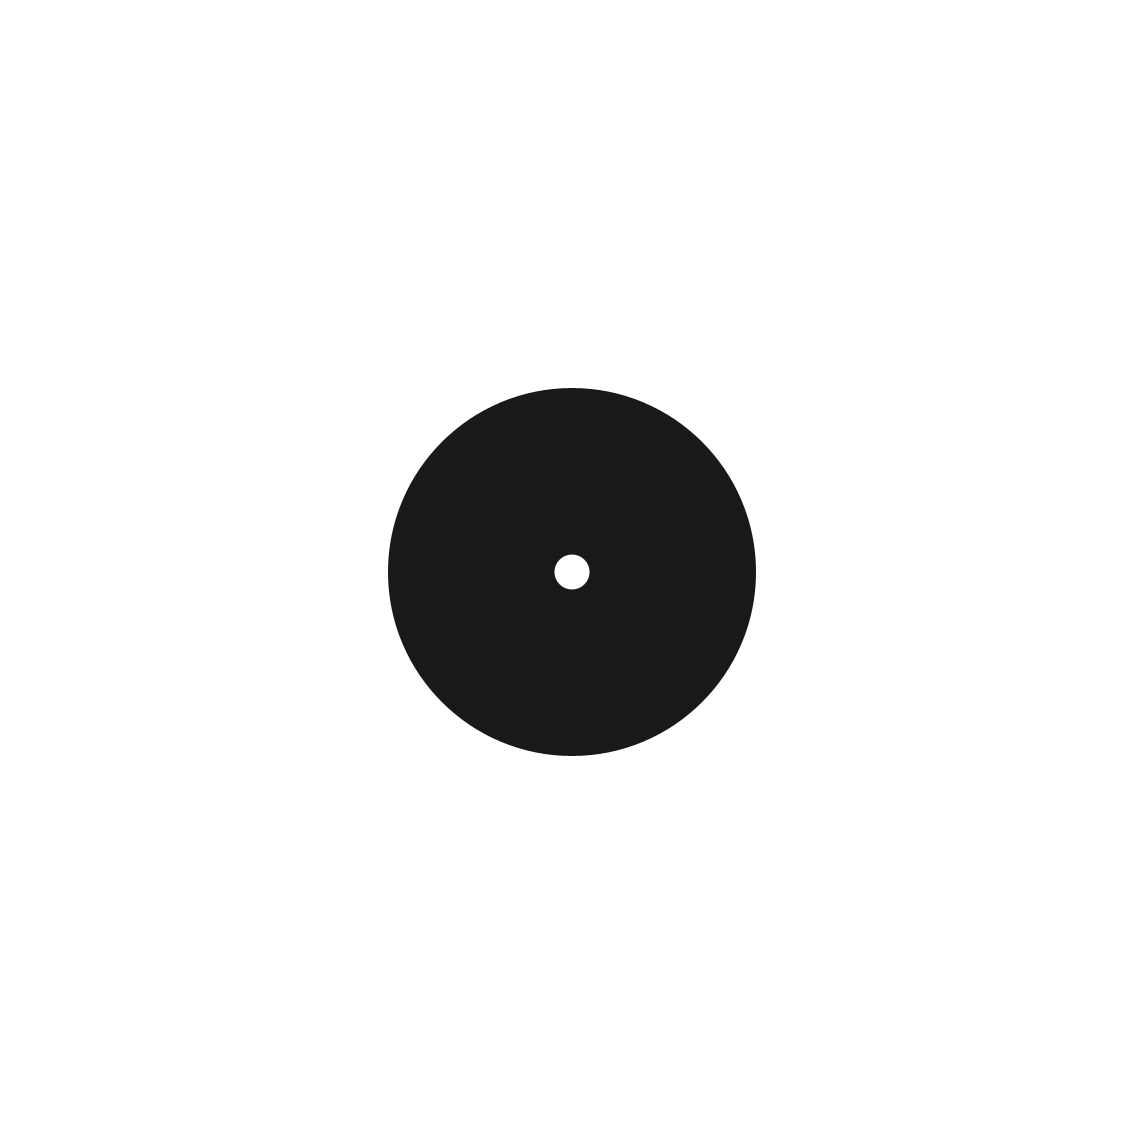
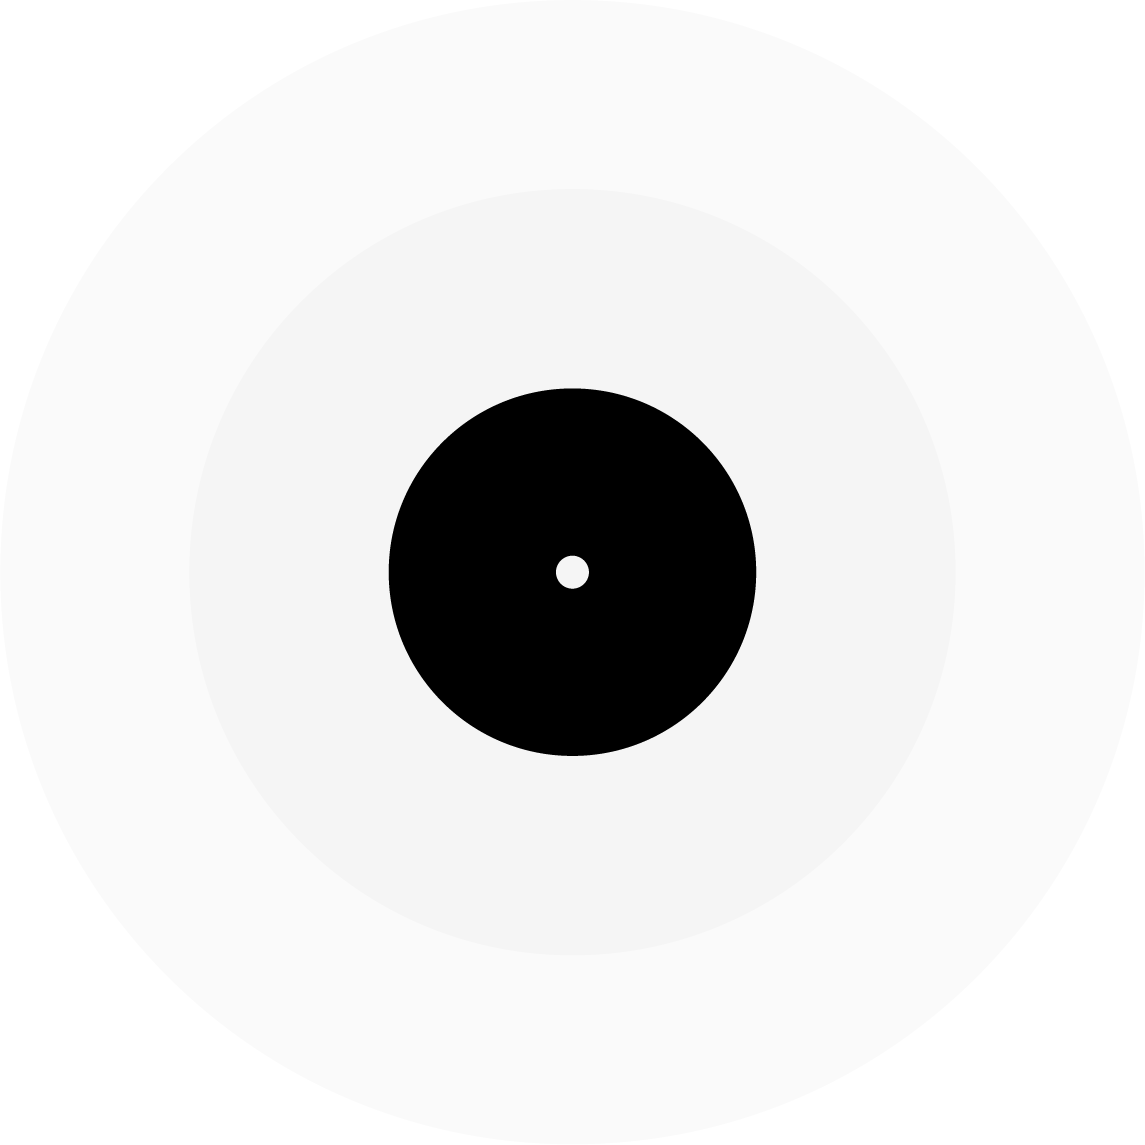
UPDATE error page

Changed region(s): [[0.3365, 0.3365, 0.6731, 0.6731]]

diff --git a/assets/css/a.css b/assets/css/a.css
@@ -18,9 +18,13 @@
 	padding: 0;
 }
 
-html, body {
+body {
 	font-size: 16px;
-	font-family: Georgia, 'Hiragino Mincho Pro', serif
+	font-family: Georgia, 'Hiragino Mincho Pro', serif;
+	/* used by different posts */
+	background-position: center top;
+	background-repeat: no-repeat;
+	background-size: cover;
 }
 
 h1, h2, h3, h4, h5, h6, 
@@ -135,7 +139,6 @@ footer {
 	margin: -560px auto 0 auto;
 	background: url(http://a0.sparanoid.com/assets/img/b.svg) no-repeat center top,
 				url(http://a0.sparanoid.com/assets/img/f.svg) no-repeat center 500px,
-				url(http://a0.sparanoid.com/assets/img/b.svg) no-repeat center 500px,
 				url(http://a0.sparanoid.com/assets/img/b.svg) no-repeat center 770px;
 	padding: 563px 0 0 0;
 }
@@ -144,7 +147,6 @@ footer {
 		background: url(http://a0.sparanoid.com/assets/img/b.svg) no-repeat center top,
 					url(http://a0.sparanoid.com/assets/img/b.svg) no-repeat center 80px,
 					url(http://a0.sparanoid.com/assets/img/f.svg) no-repeat center 580px,
-					url(http://a0.sparanoid.com/assets/img/b.svg) no-repeat center 580px,
 					url(http://a0.sparanoid.com/assets/img/b.svg) no-repeat center 850px;
 	}
 /* 	#nv, #sc, #sp, #cp, #mt */
@@ -284,7 +286,7 @@ section p {
 }
 
 section ul {
-	color: #555;
+	color: rgba(0, 0, 0, 0.7);
 }
 
 section li {

diff --git a/page-error.html b/page-error.html
@@ -1,27 +1,14 @@
 ---
+layout: page
+type: page
+title: Error
+head: Oops!
 permalink: assets/error.html
+excerpt: Something goes wrong
+bg-img: http://sparanoid.com/assets/img/lake-erie-sunset-with-fish-net.jpg
 ---
 
-<!DOCTYPE html>
-<!-- No ASCII art here. -->
-{% include fake-cache.html %}
-
-<meta charset=utf-8>
-<meta name=viewport content="width=device-width, initial-scale=1.0, maximum-scale=1.0, user-scalable=no">
-
-<link rel=stylesheet href="{{ site.assets }}/css/an.error.min.css">
-
-<title>{{ site.name }} - Error</title>
-
-<div id=wrap>
-<header>
-</header>
-
-<article>
-	{% include sponsor.html %}
-</article>
-
-<footer>
+<section class=text>
 	<p>You see this page probably one of the following errors occurs:</p>
 	<ul>
 		<li>The request cannot be fulfilled due to bad syntax.</li>
@@ -30,6 +17,5 @@ permalink: assets/error.html
 		<li>Couldn't retrieve the HTML document because of server-configuration problems.</li>
 		<li>The server is currently unavailable (because it is overloaded or down for maintenance).</li>
 	</ul>
-	<p>Now you can <a href="http://{{ site.url }}/">back to home</a> or refresh this page or just enjoy it.</p>
-</footer>
-</div>
+	<p>You can <a href="http://{{ site.url }}/">back to home</a> or try to search this site below.</p>
+</section>

diff --git a/_layouts/default.html b/_layouts/default.html
@@ -13,8 +13,10 @@
 <meta charset=utf-8>
 <meta name=viewport content="width=device-width, initial-scale=1.0, maximum-scale=1.0, user-scalable=no">
 
-<link rel=stylesheet href="{{ site.assets }}/css/a.min.css">
 <link rel=alternate href="/feed/" type=application/atom+xml>
+<link rel=stylesheet href="{{ site.assets }}/css/a.min.css">
+
+{% if page.bg-img %}<style>body {background-image: url({{ page.bg-img }});}</style>{% endif %}
 
 <title>{% if page.title != 'Sparanoid' %}{{ site.name }} - {% endif %}{{ page.title }}</title>
 
@@ -63,7 +65,7 @@
 			<form action=http://www.google.com/cse id=cse-search-box>
 				<input type=hidden name=cx value={{ site.googe-custom-search }}>
 				<input type=hidden name=ie value=utf-8>
-				<input type=search name=q size=18 placeholder="I'm a placeholder">
+				<input type=search name=q size=16>
 			</form>
 		</div>
 	</div>
